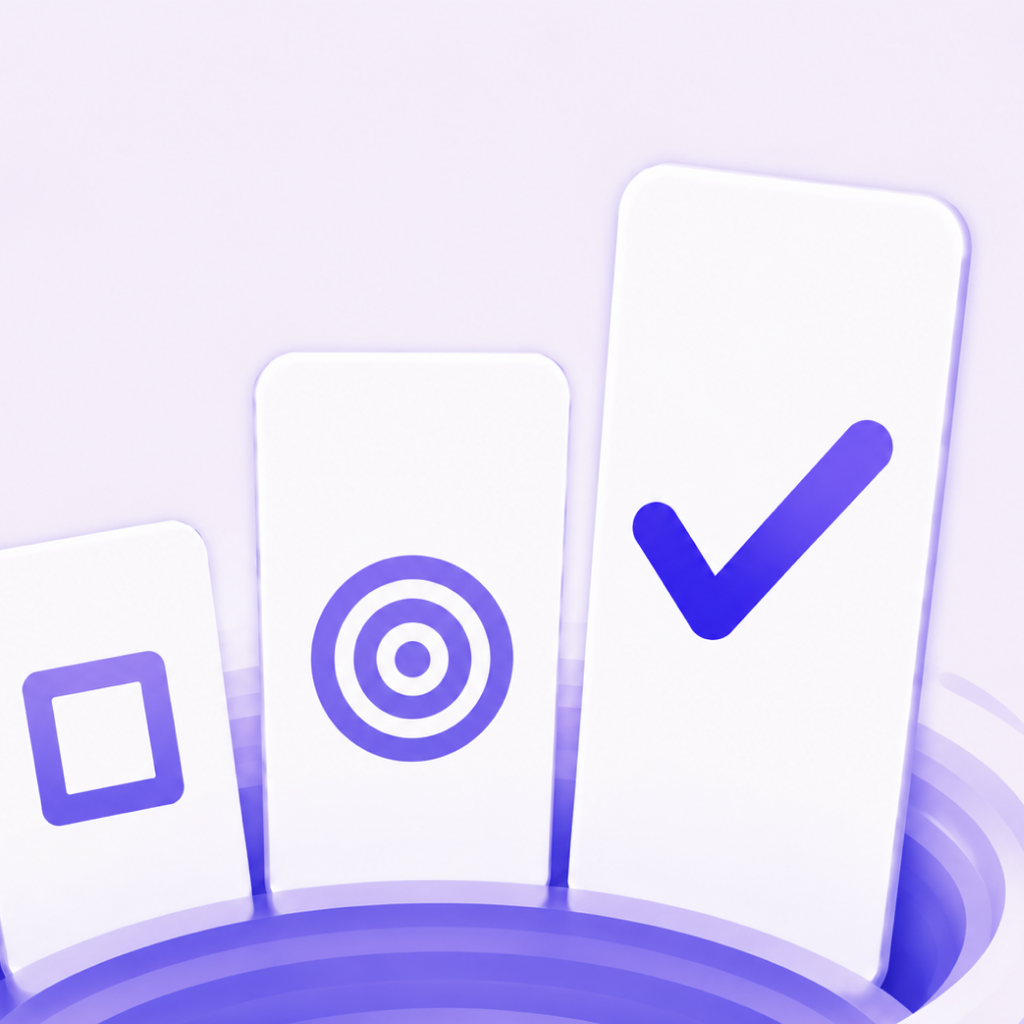
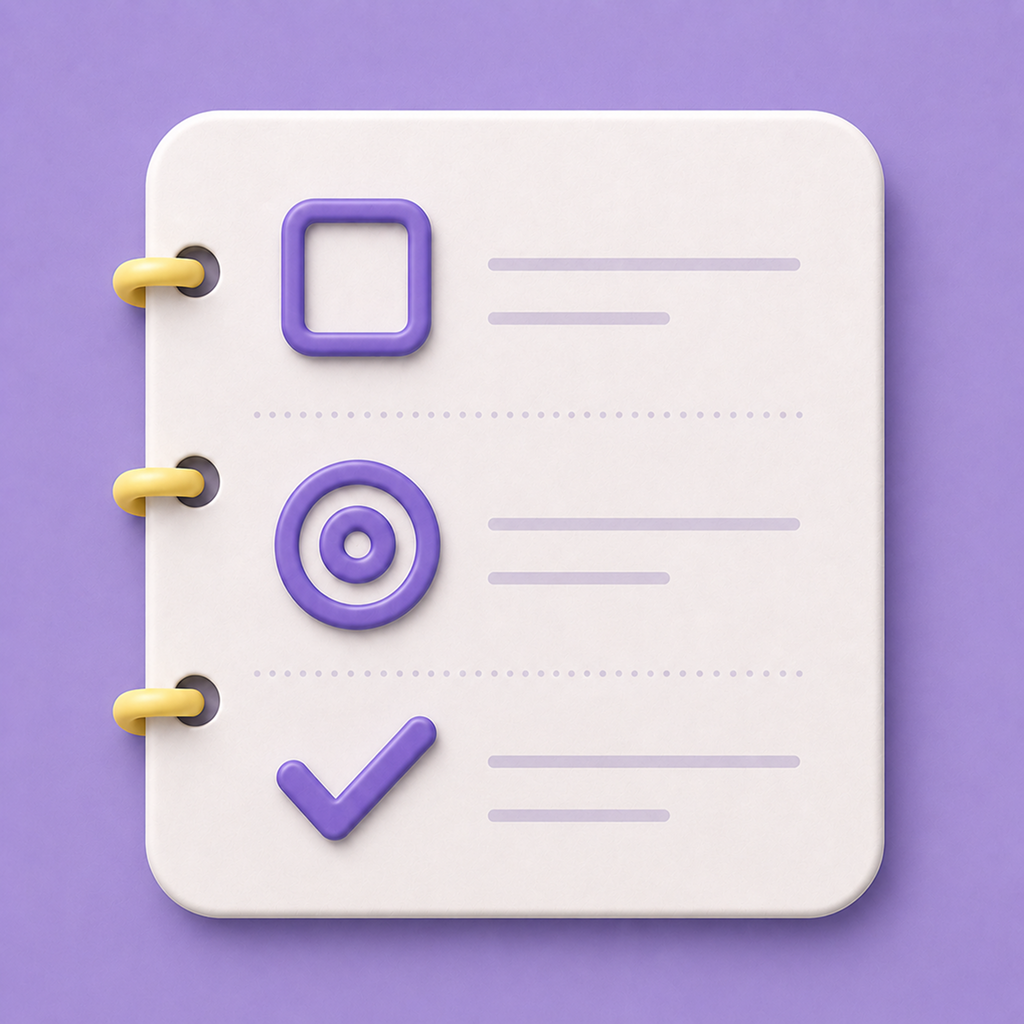
修改RollingPlan图标；删除本项目中为RollingPlan单独写的landingpage，并提供新的landingpage链接

diff --git a/src/router/router.js b/src/router/router.js
@@ -7,17 +7,7 @@ const routes = [
     { path: '/', component: HomeView, meta: { title: '首页 - 阿吉侬' } },
     // writing 路由已删除
     // algernon-agent 路由已删除
-    { path: '/products', component: () => import('../views/ProductsView.vue'), meta: { title: '产品 - 阿吉侬' } },
-    {
-        path: '/rollingplan',
-        component: () => import('../views/RollingPlanView.vue'),
-        meta: {
-            title: 'RollingPlan - 让长期目标持续向前',
-            description: '把长期方向变成清晰的下一步，在每一次行动与回顾中持续校准、持续推进。',
-            image: '/rollingplan-og.png',
-            standalone: true
-        }
-    }
+    { path: '/products', component: () => import('../views/ProductsView.vue'), meta: { title: '产品 - 阿吉侬' } }
 ]
 // 创建路由实例，并传递 `routes` 配置
 const router = createRouter({

diff --git a/src/App.vue b/src/App.vue
@@ -1,8 +1,5 @@
 <script setup>
 import { ref } from 'vue';
-import { useRoute } from 'vue-router';
-
-const route = useRoute();
 
 const writingExpanded = ref(false);
 const toggleWriting = () => {
@@ -11,8 +8,7 @@ const toggleWriting = () => {
 </script>
 
 <template>
-  <router-view v-if="route.meta.standalone"></router-view>
-  <div v-else class="layout">
+  <div class="layout">
     <nav class="sidebar">
       <h2 class="sidebar-title">algernon's</h2>
       <div class="nav-content">

diff --git a/src/views/ProductsView.vue b/src/views/ProductsView.vue
@@ -47,7 +47,7 @@
           <span class="tag">效率工具</span>
           <span class="tag">SwiftUI</span>
         </div>
-        <router-link to="/rollingplan" class="product-link">查看详情 →</router-link>
+        <a href="https://goalfeed.com.cn/rollingplan" target="_blank" rel="noopener noreferrer" class="product-link">查看详情 →</a>
       </div>
 
       <div class="product-card coming-soon">
